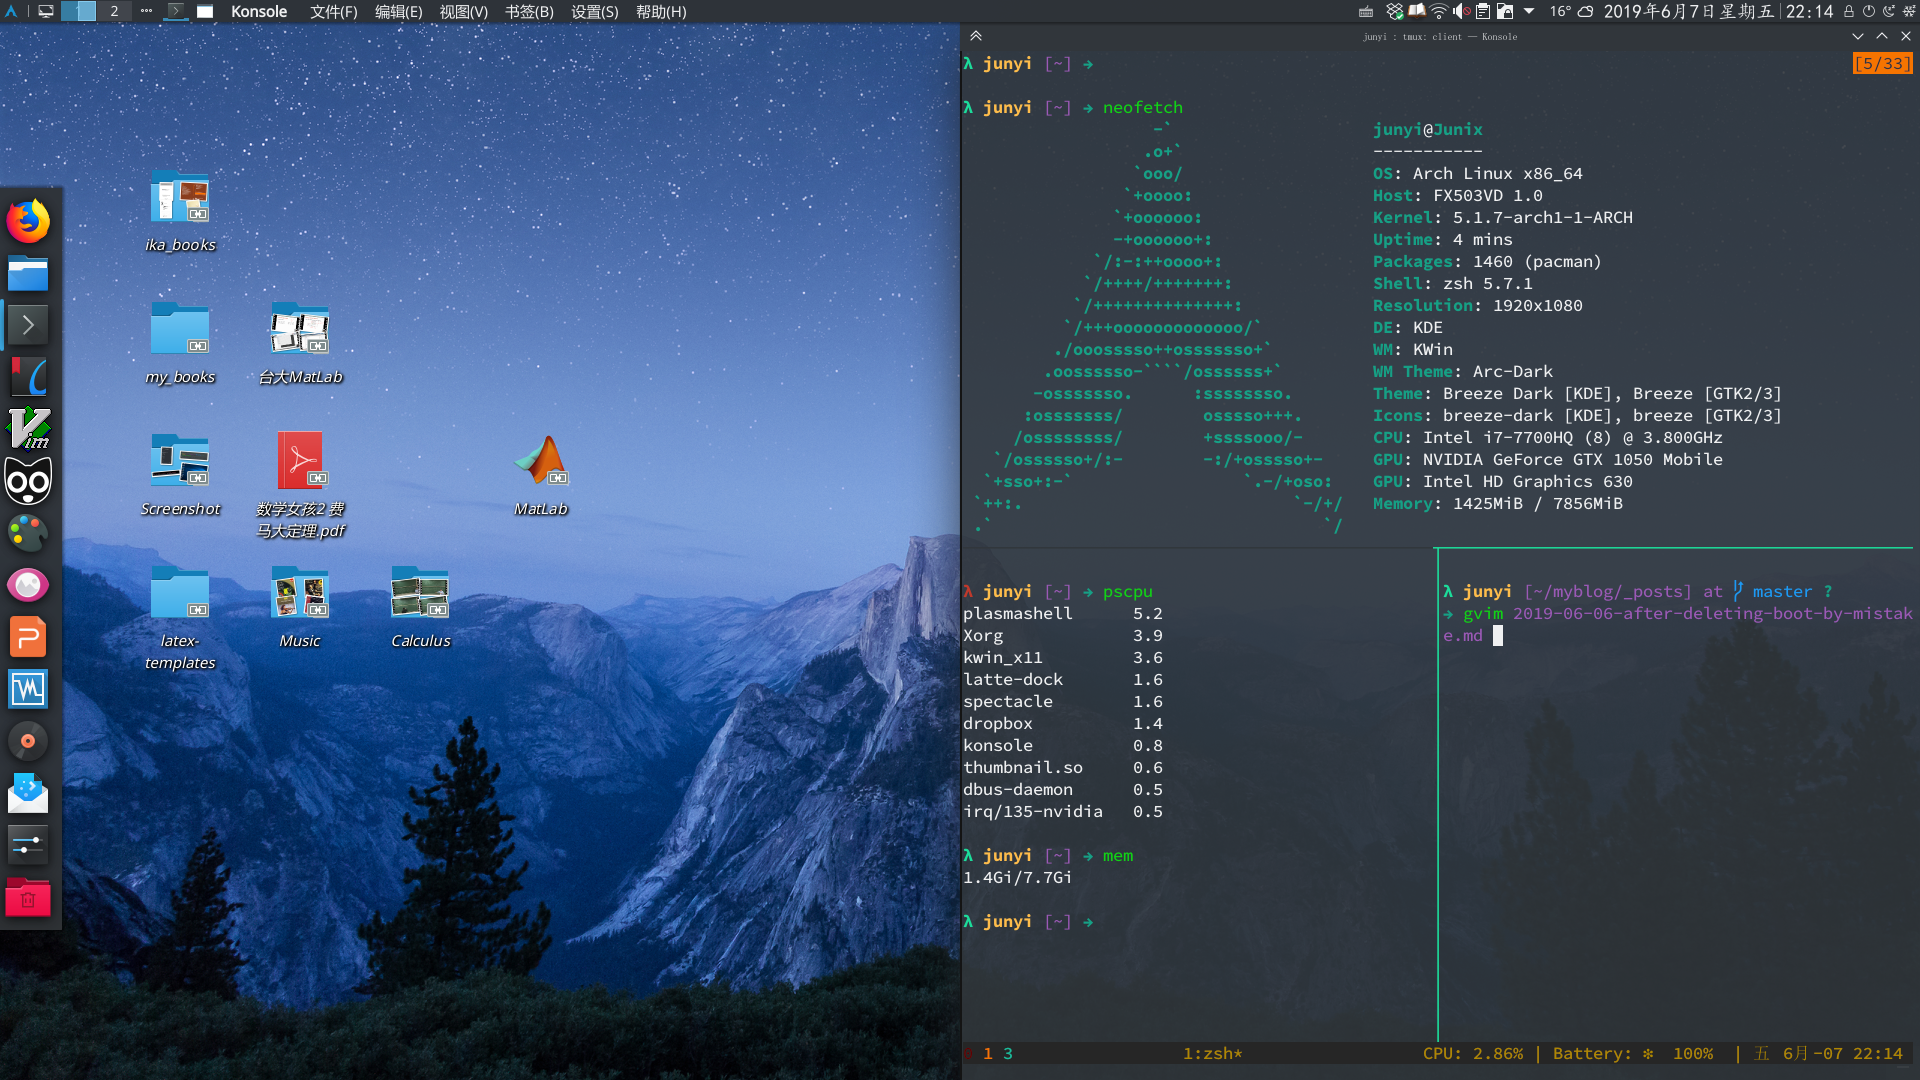
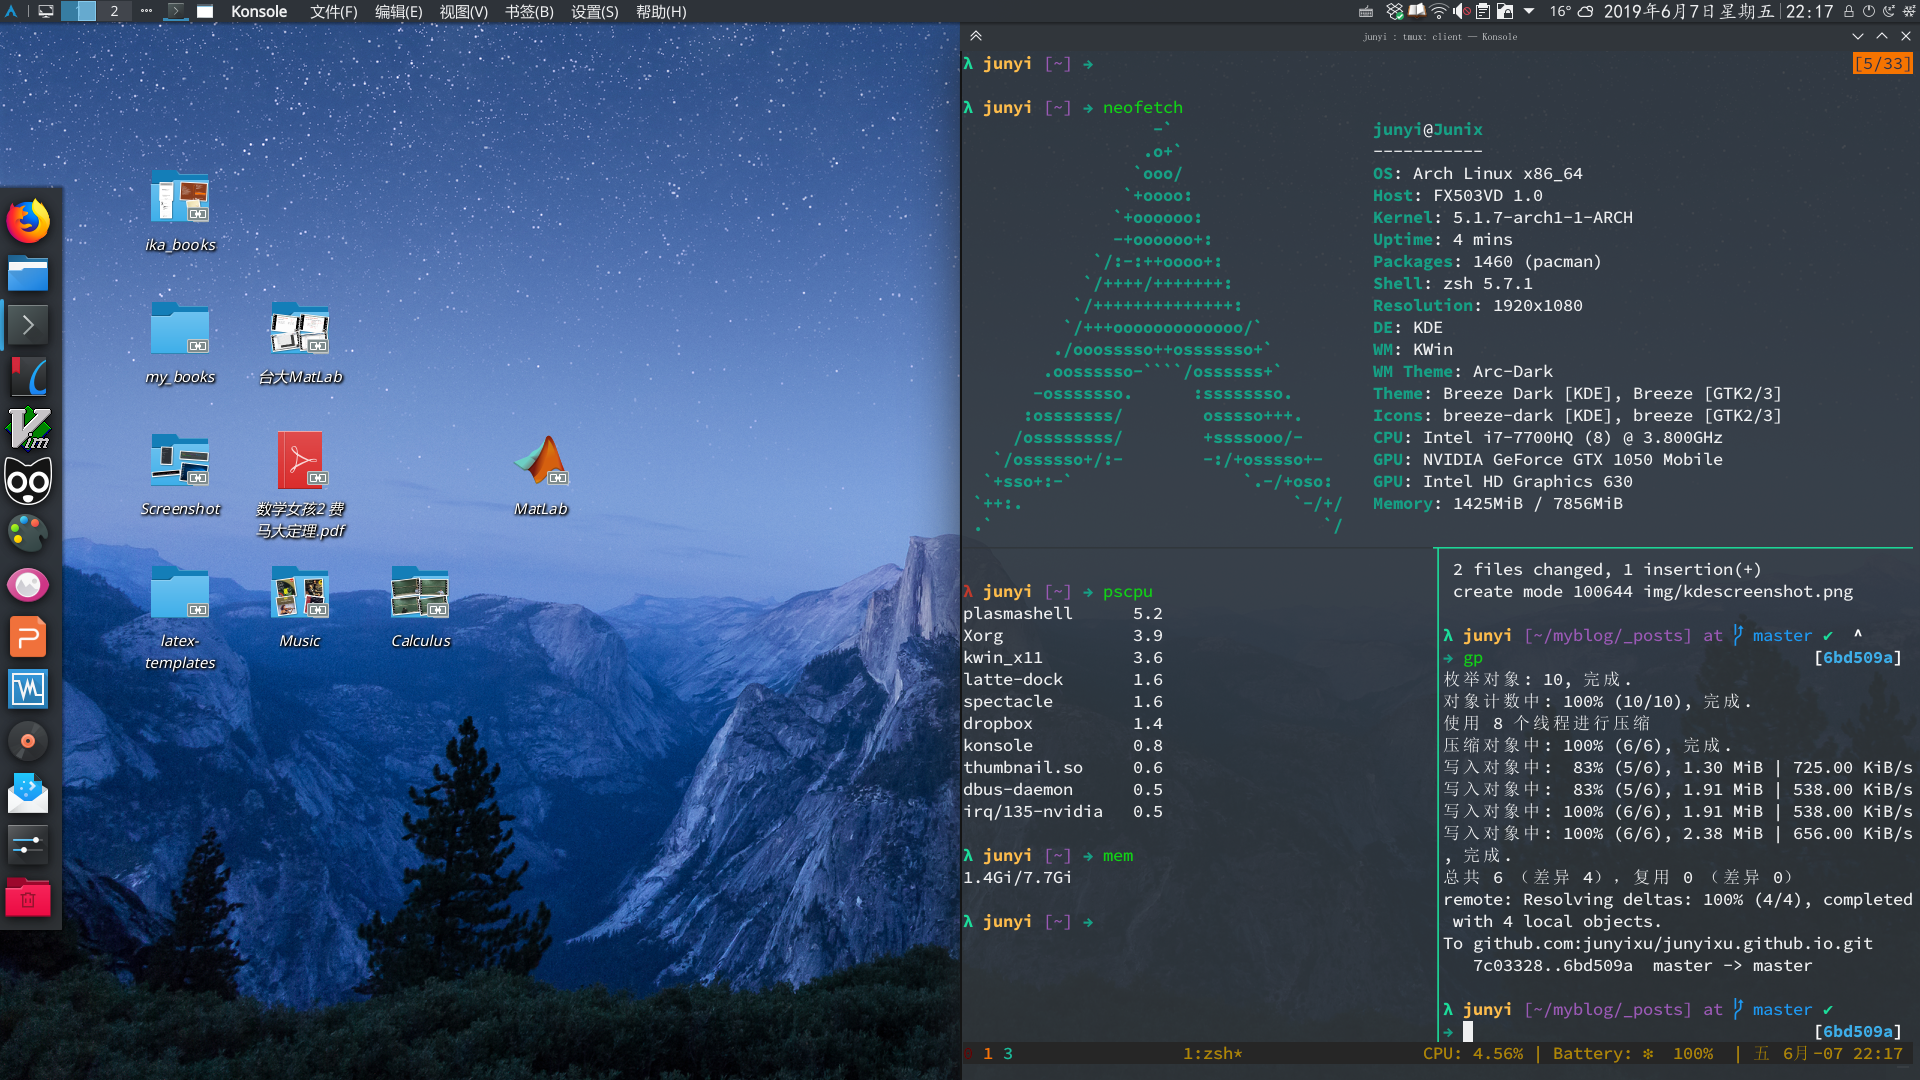
add 2019-06-06-after-deleting-boot-by-mistake.md

Changed region(s): [[0.75, 0.5194, 1.0, 0.9778], [0.9375, 0.9472, 1.0, 0.9778]]

diff --git a/_posts/2019-06-06-after-deleting-boot-by-mistake.md b/_posts/2019-06-06-after-deleting-boot-by-mistake.md
@@ -75,7 +75,7 @@ tags:
 $ sudo pacman -S nvidia nvdia-utils
 ```
 再次重启，熟悉的 Arch，熟悉的 KDE。  
-![kde](kdescreenshot.png)
+![kde](/img/kdescreenshot.png)
 ![arch](/img/btwarch.webp)
 
 ## 总结
